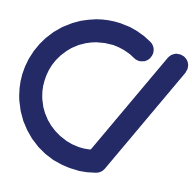
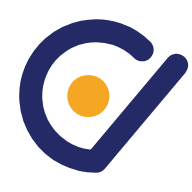
People: lilac module panel; every app wears the dotted CLOR mark
Owner, 3 Nov 2026: "both sidebars same color, hard to read modules and
submodules", and "logo still using old".

Sidebars (People, light theme only):
- The module panel is lilac #E9E5F4, brand D's secondary, under the deep
  indigo rail (12.3:1 between them), with a #C9C3E5 hairline toward the
  white page. Words indigo (10.7:1), group names #484C68 (6.8:1), a
  hovered row #DDD8EE.
- The open screen is a white tile with indigo words and the marigold edge.
- The panel redefines the shared tokens for itself; the bar's search keeps
  its indigo through a new --frame-field.

Logo:
- ClorMark and ClorLogo draw ClorTick, so Payroll, Attendance, Accounting,
  sign-in and setup show the C-tick with its marigold dot, as People does.
  The shell drops its People-only branch; packages/shell/ClorMark.jsx (an
  unused re-export) is removed.
- favicon, logo*.svg and brand/*.svg carry the dot; their PNGs are redrawn
  from them (the tile icon: cotton tick, marigold dot on indigo).

Tests: people-deep-indigo and people-colours updated for the lilac panel;
web suite 2181 passed. DESIGN.md has a 3 Nov decision row.

Changed region(s): [[0.3438, 0.375, 0.5938, 0.625]]

diff --git a/packages/ui/src/people.css b/packages/ui/src/people.css
@@ -2015,7 +2015,8 @@ html:root[data-palette='sky']:not([data-theme='dark']) #main-content .ui-metric-
 
 /*
  * Deep indigo (owner, 2 Nov 2026, direction A of three: "too pale, washed out", "generic"). The frame is the brand:
- * the bar and rail in deep indigo, the module panel in indigo, the work area white, and colour in solid blocks where
+ * the bar and rail in deep indigo, the module panel in lilac (3 Nov; it was indigo too, and the two read as one),
+ * the work area white, and colour in solid blocks where
  * it means something (the greeting and the record's header on indigo, figures on lilac, what waits on you in
  * marigold). Measured: the frame was 1.08:1 against the work area and the open screen 1.14:1 against its panel;
  * now 13.2–15.2:1 and 10.7:1. Supersedes the Cotton rail and the pale lilac panel (29 and 31 Oct). Light theme only;
@@ -2027,20 +2028,29 @@ html:root[data-palette='sky']:not([data-theme='dark']) #main-content .ui-metric-
 :root[data-palette='sky']:not([data-theme='dark']),
 :root:not([data-theme='dark']) [data-palette='sky'] {
   --frame: 27 33 82;          /* #1B2152 bar and rail */
-  --frame-panel: 35 42 102;   /* #232A66 module panel (indigo) */
+  --frame-field: 35 42 102;   /* #232A66 a field or picker on the bar (the search) */
   --frame-hi: 52 60 130;      /* #343C82 hover, a control on the frame */
   --frame-line: 62 70 140;    /* #3E468C hairline on the frame */
   --on-frame: 233 229 244;    /* lilac words: 12.3:1 on the bar, 10.7:1 on the panel */
-  --on-frame-muted: 201 195 229; /* 9.0:1 on the bar, 7.8:1 on the panel, 5.9:1 on --frame-hi */
+  --on-frame-muted: 201 195 229; /* 9.0:1 on the bar, 5.9:1 on --frame-hi */
+  /*
+   * The module panel in lilac, brand D's secondary (owner, 3 Nov 2026: "both sidebars same color, hard to read
+   * modules and submodules"). Indigo rail, lilac panel, white page: three grounds, each a clear step from the next.
+   */
+  --frame-panel: 233 229 244; /* #E9E5F4 module panel (lilac) */
+  --panel-hi: 221 216 238;    /* #DDD8EE a hovered row */
+  --panel-line: 201 195 229;  /* #C9C3E5 hairline and the duotone fill on the panel */
+  --on-panel: 35 42 102;      /* indigo words: 10.7:1 on the panel, 9.5:1 on a hovered row */
+  --on-panel-muted: 72 76 104; /* 6.8:1 on the panel, 6.0:1 on a hovered row */
   --heading-bg: 233 229 244;  /* the head row is the lilac band itself */
   --heading-hover: 221 216 238;
   --border: 222 219 234;      /* row hairline a step firmer (1.36:1, was 1.26) */
   --border-strong: 190 185 214;
   --fg-muted: 72 76 104;      /* 8.4:1 on white */
 }
-/* The frame's tokens, on the bar, the rail and the panel. */
-html:root[data-palette='sky']:not([data-theme='dark']) :is(.ui-topbar, .ui-split-rail, .ui-split-panel) {
-  --surface: var(--frame-panel);
+/* The frame's tokens, on the bar and the rail. */
+html:root[data-palette='sky']:not([data-theme='dark']) :is(.ui-topbar, .ui-split-rail) {
+  --surface: var(--frame-field);
   --surface-sunken: var(--frame-hi);
   --border: var(--frame-line);
   --border-strong: var(--frame-line);
@@ -2054,6 +2064,21 @@ html:root[data-palette='sky']:not([data-theme='dark']) :is(.ui-topbar, .ui-split
   --logo-mark: var(--lilac);
   --logo-word: 255 255 255;
   --logo-dot: var(--marigold);
+  color: rgb(var(--fg));
+}
+/* The panel's tokens: indigo words on lilac. */
+html:root[data-palette='sky']:not([data-theme='dark']) .ui-split-panel {
+  --surface: 255 255 255;
+  --surface-sunken: var(--panel-hi);
+  --border: var(--panel-line);
+  --border-strong: var(--panel-line);
+  --border-field: var(--panel-line);
+  --fg: var(--on-panel);
+  --fg-muted: var(--on-panel-muted);
+  --fg-subtle: var(--on-panel-muted);
+  --rail-ink: var(--on-panel-muted);
+  --rail-ink-strong: var(--on-panel);
+  --brand-border: var(--panel-line);
   color: rgb(var(--fg));
 }
 /* Anything that opens from the bar (the app menu, the bell, the profile) is back on the light page. */
@@ -2077,7 +2102,7 @@ html:root[data-palette='sky']:not([data-theme='dark']) .ui-topbar .ui-app-switch
 html:root[data-palette='sky']:not([data-theme='dark']) .ui-topbar .ui-app-switch .ui-glyph { color: rgb(var(--indigo)); }
 html:root[data-palette='sky']:not([data-theme='dark']) .ui-topbar .ui-topbar-initials { background: rgb(var(--lilac)); color: rgb(var(--indigo)); }
 html:root[data-palette='sky']:not([data-theme='dark']) .ui-topbar .ui-bell-count { box-shadow: 0 0 0 2px rgb(var(--frame)); }
-html:root[data-palette='sky']:not([data-theme='dark']) .ui-topbar .ui-global-search { background: rgb(var(--frame-panel)); box-shadow: inset 0 0 0 1px rgb(var(--frame-line)); }
+html:root[data-palette='sky']:not([data-theme='dark']) .ui-topbar .ui-global-search { background: rgb(var(--frame-field)); box-shadow: inset 0 0 0 1px rgb(var(--frame-line)); }
 html:root[data-palette='sky']:not([data-theme='dark']) .ui-topbar .ui-global-search kbd { background: rgb(var(--frame)); }
 /* The rail: deep indigo; the open module's tile one step lighter with its marigold fill and edge. */
 html:root[data-palette='sky']:not([data-theme='dark']) .ui-split-rail { background: rgb(var(--frame)); border-right: 0; }
@@ -2090,19 +2115,19 @@ html:root[data-palette='sky']:not([data-theme='dark']) .ui-split-rail .ui-glyph 
 html:root[data-palette='sky']:not([data-theme='dark']) .ui-split-rail .ui-split-mod[data-current] > svg.ui-glyph { color: rgb(255 255 255); background: rgb(var(--frame-hi)); box-shadow: none; }
 html:root[data-palette='sky']:not([data-theme='dark']) .ui-split-rail .ui-split-mod[data-current] .ui-glyph [opacity='0.2'] { fill: rgb(var(--marigold)); }
 html:root[data-palette='sky']:not([data-theme='dark']) .ui-split-rail > .ui-split-mod[data-more] > svg { background: transparent; color: rgb(var(--on-frame)); }
-/* The module panel: indigo; the open screen a lilac tile with indigo words and a marigold edge. */
-html:root[data-palette='sky']:not([data-theme='dark']) .ui-split-panel { background: rgb(var(--frame-panel)); border-right: 0; }
-html:root[data-palette='sky']:not([data-theme='dark']) .ui-split-panel .ui-split-panel-head .ui-t-sec { color: rgb(255 255 255); font-family: var(--font-display); font-size: 1.125rem; }
-html:root[data-palette='sky']:not([data-theme='dark']) .ui-split-panel .ui-split-item { color: rgb(var(--on-frame)); font-size: 0.875rem; }
-html:root[data-palette='sky']:not([data-theme='dark']) .ui-split-panel .ui-split-item .ui-glyph { color: rgb(var(--on-frame)); }
-html:root[data-palette='sky']:not([data-theme='dark']) .ui-split-panel .ui-split-item .ui-glyph [opacity='0.2'] { fill: rgb(var(--frame-hi)); }
-html:root[data-palette='sky']:not([data-theme='dark']) .ui-split-panel .ui-split-item:hover:not([aria-current='page']) { background: rgb(var(--frame-hi)); }
+/* The module panel: lilac; the open screen a white tile with indigo words and a marigold edge. */
+html:root[data-palette='sky']:not([data-theme='dark']) .ui-split-panel { background: rgb(var(--frame-panel)); border-right: 1px solid rgb(var(--panel-line)); }
+html:root[data-palette='sky']:not([data-theme='dark']) .ui-split-panel .ui-split-panel-head .ui-t-sec { color: rgb(var(--on-panel)); font-family: var(--font-display); font-size: 1.125rem; }
+html:root[data-palette='sky']:not([data-theme='dark']) .ui-split-panel .ui-split-item { color: rgb(var(--on-panel)); font-size: 0.875rem; }
+html:root[data-palette='sky']:not([data-theme='dark']) .ui-split-panel .ui-split-item .ui-glyph { color: rgb(var(--on-panel)); }
+html:root[data-palette='sky']:not([data-theme='dark']) .ui-split-panel .ui-split-item .ui-glyph [opacity='0.2'] { fill: rgb(var(--panel-line)); }
+html:root[data-palette='sky']:not([data-theme='dark']) .ui-split-panel .ui-split-item:hover:not([aria-current='page']) { background: rgb(var(--panel-hi)); }
 html:root[data-palette='sky']:not([data-theme='dark']) .ui-split-panel .ui-split-item[aria-current='page'] {
-  background: rgb(var(--lilac)); color: rgb(var(--indigo)); font-weight: 700; box-shadow: inset 3px 0 0 rgb(var(--marigold));
+  background: rgb(255 255 255); color: rgb(var(--indigo)); font-weight: 700; box-shadow: inset 3px 0 0 rgb(var(--marigold)), 0 1px 2px rgb(35 42 102 / 0.08);
 }
 html:root[data-palette='sky']:not([data-theme='dark']) .ui-split-panel .ui-split-item[aria-current='page'] .ui-glyph { color: rgb(var(--indigo)); }
 html:root[data-palette='sky']:not([data-theme='dark']) .ui-split-panel .ui-split-item[aria-current='page'] .ui-glyph [opacity='0.2'] { fill: rgb(var(--marigold)); }
-html:root[data-palette='sky']:not([data-theme='dark']) .ui-split-panel :is(p.ui-caption, .ui-caption) { color: rgb(var(--on-frame-muted)); }
+html:root[data-palette='sky']:not([data-theme='dark']) .ui-split-panel :is(p.ui-caption, .ui-caption) { color: rgb(var(--on-panel-muted)); }
 
 /* The work area: white, titles a step larger, colour in blocks. */
 html:root[data-palette='sky']:not([data-theme='dark']) #main-content .ui-page-heading .ui-t-page { font-size: 1.75rem !important; line-height: 2.125rem !important; }

diff --git a/test/people-deep-indigo.test.js b/test/people-deep-indigo.test.js
@@ -3,7 +3,8 @@ import { describe, expect, it } from 'vitest';
 
 /**
  * People in deep indigo (owner, 2 Nov 2026, direction A of three, after "too pale, washed out" and "generic"). The
- * bar, rail and module panel are the brand's indigo, the work area stays white, and colour comes in solid blocks.
+ * bar and rail are the brand's indigo, the module panel lilac (3 Nov 2026: indigo rail and indigo panel read as one,
+ * "hard to read modules and submodules"), the work area stays white, and colour comes in solid blocks.
  * The design note: DESIGN.md, Color → People (brand D) → Deep indigo frame.
  */
 const read = (f) => readFileSync(f, 'utf8');
@@ -26,32 +27,41 @@ const panel = token(block, 'frame-panel');
 const hi = token(block, 'frame-hi');
 const onFrame = token(block, 'on-frame');
 const onMuted = token(block, 'on-frame-muted');
+const panelHi = token(block, 'panel-hi');
+const onPanel = token(block, 'on-panel');
+const onPanelMuted = token(block, 'on-panel-muted');
 
 describe('the frame is indigo, and every word on it reads', () => {
   it('defines the frame tokens once, in the light sky palette', () => {
     expect(block).toMatch(/^:root\[data-palette='sky'\]:not\(\[data-theme='dark'\]\),\n:root:not\(\[data-theme='dark'\]\) \[data-palette='sky'\] \{\n\s*--frame: 27 33 82;/m);
-    expect(panel).toBe(INDIGO);
-    for (const t of [frame, panel, hi, onFrame, onMuted]) expect(t).toMatch(/^\d+ \d+ \d+$/);
+    expect(panel).toBe(LILAC);
+    expect(onPanel).toBe(INDIGO);
+    for (const t of [frame, panel, hi, onFrame, onMuted, panelHi, onPanel, onPanelMuted]) expect(t).toMatch(/^\d+ \d+ \d+$/);
   });
 
   it('the frame stands apart from the white work area (was 1.08:1)', () => {
     expect(contrast(frame, WHITE)).toBeGreaterThan(12);
-    expect(contrast(panel, WHITE)).toBeGreaterThan(12);
+  });
+
+  it('the rail and the module panel are two grounds, not one (3 Nov 2026)', () => {
+    expect(contrast(frame, panel)).toBeGreaterThan(10);
+    expect(block).toMatch(/\.ui-split-panel \{ background: rgb\(var\(--frame-panel\)\); border-right: 1px solid rgb\(var\(--panel-line\)\); \}/);
   });
 
   it('labels, group names and menu words clear AA on the bar, the panel and a hovered row', () => {
-    for (const ground of [frame, panel]) {
-      expect(contrast(onFrame, ground)).toBeGreaterThan(7);
-      expect(contrast(onMuted, ground)).toBeGreaterThan(7);
-    }
+    expect(contrast(onFrame, frame)).toBeGreaterThan(7);
+    expect(contrast(onMuted, frame)).toBeGreaterThan(7);
     expect(contrast(onMuted, hi)).toBeGreaterThan(4.5);
     expect(contrast(WHITE, hi)).toBeGreaterThan(7);
+    expect(contrast(onPanel, panel)).toBeGreaterThan(7);
+    expect(contrast(onPanel, panelHi)).toBeGreaterThan(7);
+    expect(contrast(onPanelMuted, panel)).toBeGreaterThan(4.5);
+    expect(contrast(onPanelMuted, panelHi)).toBeGreaterThan(4.5);
   });
 
-  it('the open screen is a lilac tile that reads against the indigo panel (was 1.14:1), with indigo words', () => {
-    expect(contrast(LILAC, panel)).toBeGreaterThan(7);
-    expect(contrast(INDIGO, LILAC)).toBeGreaterThan(7);
-    expect(block).toMatch(/\.ui-split-panel \.ui-split-item\[aria-current='page'\] \{\n\s*background: rgb\(var\(--lilac\)\); color: rgb\(var\(--indigo\)\);[^}]*inset 3px 0 0 rgb\(var\(--marigold\)\)/);
+  it('the open screen is a white tile on the lilac panel, with indigo words and a marigold edge', () => {
+    expect(contrast(INDIGO, WHITE)).toBeGreaterThan(7);
+    expect(block).toMatch(/\.ui-split-panel \.ui-split-item\[aria-current='page'\] \{\n\s*background: rgb\(255 255 255\); color: rgb\(var\(--indigo\)\);[^}]*inset 3px 0 0 rgb\(var\(--marigold\)\)/);
   });
 
   it('marigold on the frame is a fill or a mark: the open module and the waiting tile, indigo words on it', () => {
@@ -69,7 +79,8 @@ describe('the frame is indigo, and every word on it reads', () => {
   });
 
   it('the frame redefines the shared tokens, so the bar, picker and search follow; menus from the bar return to light', () => {
-    expect(block).toMatch(/:is\(\.ui-topbar, \.ui-split-rail, \.ui-split-panel\) \{\n\s*--surface: var\(--frame-panel\);/);
+    expect(block).toMatch(/:is\(\.ui-topbar, \.ui-split-rail\) \{\n\s*--surface: var\(--frame-field\);/);
+    expect(block).toMatch(/\.ui-split-panel \{\n\s*--surface: 255 255 255;[\s\S]*?--fg: var\(--on-panel\);/);
     expect(block).toMatch(/\.ui-topbar :is\(\.ui-popover, \[role='menu'\], \[role='dialog'\], \[role='listbox'\]\) \{\n\s*--surface: 255 255 255;/);
   });
 
@@ -139,7 +150,7 @@ describe('Home: one primary action, and what waits on you comes first', () => {
     expect(block).toMatch(/\.soft-band-sub strong\[data-zero\] \{ color: inherit; font-weight: 400; \}/);
     expect(block).toMatch(/\.soft-band-stat-value\[data-zero\] \{ color: rgb\(var\(--fg-subtle\)\) !important; font-weight: 600; \}/);
     expect(contrast(token(people.slice(people.indexOf('Brand D, each colour with its own job')), 'fg-subtle'), LILAC)).toBeGreaterThan(3);
-    expect(contrast(onMuted, panel)).toBeGreaterThan(4.5);
+    expect(contrast(onPanelMuted, panel)).toBeGreaterThan(4.5);
   });
 
   it('on a phone a waiting row stacks Review and Approve under the name, 44px targets', () => {

diff --git a/packages/ui/src/components/brand/ClorMark.jsx b/packages/ui/src/components/brand/ClorMark.jsx
@@ -1,38 +1,18 @@
 import React from 'react';
-import { TICK_PATH } from './ClorTick.jsx';
+import ClorTick from './ClorTick.jsx';
 
 /**
  * The CLOR mark: one stroke, never lifted. It runs round the C and finishes
  * as a tick — the tick being the product's done state, so the mark and the
- * "Filed / Paid / Approved" chips are the same idea.
+ * "Filed / Paid / Approved" chips are the same idea — with the marigold dot
+ * inside the C.
  *
- * Drawn inline so it follows the theme: indigo on cotton, marigold on the
- * dark indigo ground (`--logo-mark`). The path is ClorTick's, so People and
- * every other app draw the same mark; public/brand/clor-mark.svg matches it.
+ * Every app draws ClorTick's mark now (owner, 3 Nov 2026: Payroll, Attendance
+ * and the sign-in page still showed the mark without its dot). It follows the
+ * theme's --logo-mark / --logo-dot; public/brand/clor-mark.svg matches it.
  *
  * `color` overrides the theme colour for the rare surface that needs it.
  */
 export default function ClorMark({ size = 28, color, className = '', title = 'CLOR' }) {
-  return (
-    <svg
-      viewBox="0 0 100 100"
-      width={size}
-      height={size}
-      role={title ? 'img' : undefined}
-      aria-label={title || undefined}
-      aria-hidden={title ? undefined : 'true'}
-      className={className}
-      style={{ display: 'inline-block', verticalAlign: 'middle', flexShrink: 0 }}
-    >
-      {/* A small mark gets a heavier stroke so the tick still reads at favicon size. */}
-      <path
-        d={TICK_PATH}
-        fill="none"
-        stroke={color || 'rgb(var(--logo-mark))'}
-        strokeWidth={size < 24 ? 15 : 12}
-        strokeLinecap="round"
-        strokeLinejoin="round"
-      />
-    </svg>
-  );
+  return <ClorTick size={size} color={color} className={className} title={title} />;
 }

diff --git a/packages/shell/Shell.jsx b/packages/shell/Shell.jsx
@@ -25,7 +25,6 @@ import { confirmDialog } from '@ui/components/ui/notify';
 /* Asked before any navigation that would drop edits a screen has not saved (spec v1 §5.1, WF-11). */
 const askLeave = () => confirmDialog({ title: 'Leave without saving?', message: 'Your changes on this page have not been saved.', confirmLabel: 'Leave', tone: 'danger' });
 import HelpCenter from './HelpCenter';
-import ClorMark from './ClorMark';
 import { ClorLogo, ClorTick } from '@ui/components/brand';
 import NotificationBell from './NotificationBell';
 import { watchWideTables } from './wideTables';
@@ -713,8 +712,7 @@ export default function Shell() {
   if (restoring) {
     return (
       <div className="min-h-dvh grid place-items-center" style={{ backgroundColor: 'rgb(var(--app-bg))' }}>
-        {/* The app the address names is known before the session is: People's loading screen wears its own mark. */}
-        {chosenAppId === 'people' ? <ClorTick size={40} /> : <ClorMark size={40} />}
+        <ClorTick size={40} />
       </div>
     );
   }
@@ -1034,10 +1032,7 @@ export default function Shell() {
             </button>
           ) : null}
           <button type="button" className="flex items-center gap-2" onClick={() => openApp(mine[0]?.id)}>
-            {/* People wears the new mark (brand direction D, 29 Oct 2026); the other apps keep clor.in's until they move over. */}
-            {activeAppId === 'people'
-              ? <ClorTick size={phone ? 24 : 22} wordmark={!phone} />
-              : phone ? <ClorMark size={24} /> : <ClorLogo size={20} />}
+            <ClorTick size={phone ? 24 : 22} wordmark={!phone} />
           </button>
 
           {/* The app switcher. Named for the app you are in, because that is the

diff --git a/test/people-colours.test.js b/test/people-colours.test.js
@@ -183,9 +183,9 @@ describe('one brand series for charts, teams and leave types', () => {
 });
 
 describe('chosen and the employee app', () => {
-  /* Since 2 Nov 2026 the panel is indigo (deep indigo, test/people-deep-indigo.test.js): the open screen is a lilac tile with a marigold edge. */
-  it("the module panel's open screen sits on the lilac tile, marked with marigold", () => {
-    expect(block).toMatch(/\.ui-split-panel \.ui-split-item\[aria-current='page'\] \{\n\s*background: rgb\(var\(--lilac\)\); color: rgb\(var\(--indigo\)\); font-weight: 700; box-shadow: inset 3px 0 0 rgb\(var\(--marigold\)\);/);
+  /* Since 3 Nov 2026 the panel is lilac under an indigo rail (test/people-deep-indigo.test.js): the open screen is a white tile with a marigold edge. */
+  it("the module panel's open screen sits on a white tile, marked with marigold", () => {
+    expect(block).toMatch(/\.ui-split-panel \.ui-split-item\[aria-current='page'\] \{\n\s*background: rgb\(255 255 255\); color: rgb\(var\(--indigo\)\); font-weight: 700; box-shadow: inset 3px 0 0 rgb\(var\(--marigold\)\)/);
   });
 
   it("the employee app wears brand D's waiting through its own data-brand, not the sky palette", () => {

diff --git a/packages/ui/src/components/brand/ClorLogo.jsx b/packages/ui/src/components/brand/ClorLogo.jsx
@@ -1,5 +1,6 @@
 import React from 'react';
 import ClorMark from './ClorMark.jsx';
+import ClorTick from './ClorTick.jsx';
 
 /**
  * The CLOR logo: the C-tick mark beside the wordmark, set in Bricolage
@@ -15,6 +16,8 @@ const HEIGHTS = { sm: 20, md: 28, lg: 40, xl: 56 };
 export default function ClorLogo({ variant = 'horizontal', size = 'md', color, className = '', title = 'CLOR' }) {
   const h = typeof size === 'number' ? size : HEIGHTS[size] || HEIGHTS.md;
   if (variant === 'mark') return <ClorMark size={h} color={color} className={className} title={title} />;
+  /* The horizontal lockup is ClorTick's one drawing: CLOR close to the tick, its bottom on the C's (3 Nov 2026). */
+  if (variant === 'horizontal') return <ClorTick size={h} wordmark color={color} className={className} title={title} />;
   const word = (
     <span
       className="ui-wordmark"

diff --git a/packages/ui/src/components/brand/ClorTick.jsx b/packages/ui/src/components/brand/ClorTick.jsx
@@ -3,8 +3,8 @@ import React from 'react';
 /**
  * The CLOR mark (brand direction D, "Done, daily"; owner 29 Oct 2026): one
  * stroke, never lifted, runs round the C and finishes as a tick, with a
- * marigold dot inside the C. People wears it first; the other apps keep the
- * clor.in mark (ClorMark) until they move over.
+ * marigold dot inside the C. Every app and the sign-in page wear it (People
+ * from 29 Oct, the rest from 3 Nov 2026); ClorMark is this mark without CLOR.
  *
  * Indigo on light grounds (the theme's --logo-mark and --logo-word); `color` sets
  * the stroke and name for one particular ground. The dot stays marigold, except on a marigold ground,

diff --git a/DESIGN.md b/DESIGN.md
@@ -123,12 +123,13 @@ Nothing below 12px. Nothing between 16 and 24.
   - **Away `#8D84C6`** (`--away`) marks on leave and out today, apart from Present's indigo (3.4:1 on white, 3.9:1 against indigo). It is a mark — a bar, a dot, a cell wash — never text; the words stay indigo on lilac (10.7:1).
   - **Charts and categories** use one series, in this order: indigo `#232A66`, marigold `#F5A623`, away `#8D84C6`, deep marigold `#C98200`, indigo-60 `#5A61A8`, slate indigo `#4A4F7A`, then greys `#8A8CA3` and `#686B7C` (`--dept-1..8`, every mark but marigold at least 3:1 on white; `--dept-0`, no team, is grey). Never the old department rainbow; gender takes the first two. Initials on a face are indigo on their team's 16% wash, never the series colour as text. A leave type nobody coloured draws from the same family (`--leave-0..7`: slate indigo, marigold, indigo, deep marigold, indigo-60, grey-blue `#8A8CA3`, away, grey; the warning brown is never a leave colour — every mark but marigold at least 3:1 on white, none red, as a leave is not an error); a colour someone chose stays theirs.
   - **Zero is quiet:** a figure at nought is grey `#686B7C` (5.3:1), weight 600; only figures above nought are indigo.
-  - **Lilac `#E9E5F4`** tints what is chosen or done: the selected rail item and the module panel's open screen (the tile with a `#C9C3E5` line, since the panel itself is pale lilac), header bands, done chips with a tick, the tile behind a Settings card's icon.
+  - **Lilac `#E9E5F4`** tints what is chosen or done, and is the module panel's ground (its open screen is a white tile on it): the selected rail item, header bands, done chips with a tick, the tile behind a Settings card's icon.
   - **The work area is white** (owner: Cotton read yellowish there). Hairlines and the sunken tone are cool, a trace of lilac — border `#DEDBEA` (2 Nov 2026, was `#E6E4EE`), strong `#BEB9D6`, sunken `#F6F5FA` — so rows still part on white. Hairlines are 1.36:1 on white (were 1.26). Support text is `#484C68` (8.4:1).
   - **Deep indigo frame (owner, 2 Nov 2026, direction A of three; supersedes the Cotton rail of 29 Oct and the pale lilac panel of 31 Oct).** The owner found People "too pale, washed out" and "generic". Measured, the words were fine (lowest 4.86:1); the surfaces were not: rail and panel 1.08:1 against the work area, the open screen 1.14:1, head row and hairlines about 1.25:1. Now the frame is the brand:
-    - **Bar and rail** deep indigo `#1B2152` (`--frame`); **module panel** indigo `#232A66` (`--frame-panel`); hover and a control on the frame `#343C82` (`--frame-hi`); hairline on it `#3E468C` (`--frame-line`). Words on the frame are lilac `#E9E5F4` (`--on-frame`, 12.3:1 on the bar, 10.7:1 on the panel) and `#C9C3E5` (`--on-frame-muted`, 9.0:1 on the bar, 7.8:1 on the panel, 5.9:1 on a hovered row). The frame is 13.2–15.2:1 against the white work area.
+    - **Bar and rail** deep indigo `#1B2152` (`--frame`); hover and a control on the frame `#343C82` (`--frame-hi`); the search on the bar `#232A66` (`--frame-field`); hairline on it `#3E468C` (`--frame-line`). Words on the frame are lilac `#E9E5F4` (`--on-frame`, 12.3:1 on the bar) and `#C9C3E5` (`--on-frame-muted`, 9.0:1 on the bar, 5.9:1 on a hovered row). The bar and rail are 15.2:1 against the white work area.
+    - **Module panel lilac (owner, 3 Nov 2026: "both sidebars same color, hard to read modules and submodules").** The panel is lilac `#E9E5F4` (`--frame-panel`, brand D's secondary), 12.3:1 against the rail, with a `#C9C3E5` hairline (`--panel-line`) toward the white page. Its words are indigo (`--on-panel`, 10.7:1; 9.5:1 on a hovered row `#DDD8EE`, `--panel-hi`), group names `#484C68` (`--on-panel-muted`, 6.8:1). The panel redefines the shared tokens for itself (indigo on lilac), as the bar and rail do for theirs.
     - On the frame the shared tokens are redefined (`--surface`, `--fg`, `--border`…), so the bar's own background, the search and the company picker follow; a menu, dialog or list opened from the bar is back on the light tokens.
-    - **The open module** keeps its two-tone icon on a `--frame-hi` tile with the marigold fill and the marigold bar beside it. **The open screen** in the panel is a lilac tile with indigo words, weight 700 and a 3px marigold edge (lilac against the panel 10.7:1).
+    - **The open module** keeps its two-tone icon on a `--frame-hi` tile with the marigold fill and the marigold bar beside it. **The open screen** in the panel is a white tile with indigo words, weight 700 and a 3px marigold edge (it was a lilac tile on the indigo panel until 3 Nov 2026).
     - **The logo** draws from its tokens (`--logo-mark`, `--logo-word`, `--logo-dot`; `ClorTick` no longer hard-codes `#232A66`): on the indigo bar it keeps its two tones: the stroke lilac, the dot marigold and CLOR white.
     - **Colour in blocks, in the work area:** Home's greeting sits on an indigo block (white title, lilac words, a count above nought in marigold; a nought stays in the sentence's own lilac at weight 400) and its one primary, Add an employee, is marigold with indigo words (6.5:1); Home's figures sit on lilac tiles; a nought is quiet grey `#686B7C` at weight 600 (4.3:1 on lilac, large text), and the one that waits on you (To approve, above nought) is solid marigold. The employee record's header is an indigo block with Edit, its primary, in marigold. Lists keep the work area white: the figures strip is a lilac band, the view tabs a lilac tray with the open tab solid indigo (its count marigold), the head row the lilac band itself (`--heading-bg` `#E9E5F4`, indigo words 10.7:1), initials in a list white on indigo.
     - **Page titles 28px** in People (Bricolage, weight 800); Home's greeting 34px, 28px on a phone.
@@ -642,6 +643,7 @@ because focus, portals and event order cannot be read off the source.
 ## Decisions Log
 | Date | Decision | Rationale |
 |------|----------|-----------|
+| 2026-11-03 | People: lilac module panel; every app wears the dotted CLOR mark | Owner, 3 Nov: "both sidebars same color, hard to read modules and submodules" — the indigo rail and indigo panel read as one ground. The module panel is lilac `#E9E5F4`, brand D's secondary, with indigo words (10.7:1) and the open screen a white tile with the marigold edge; the bar and rail stay deep indigo; light theme only. Owner, same day: "logo still using old" — Payroll, Attendance, Accounting, sign-in and the static icons still drew the C-tick without its marigold dot. `ClorMark` and `ClorLogo` now draw `ClorTick`, the shell drops its People-only branch, and the favicon, `logo*.svg`, `brand/*.svg` and their PNGs carry the dot (the tile icon is a cotton tick with a marigold dot on indigo, as People's). The static lockups keep their old spacing between mark and name |
 | 2026-11-02 | People: deep indigo frame (direction A) | Owner, 2 Nov: People looked "too pale, washed out", "generic", and its spacing and hierarchy were off. The designer showed three directions on real screens (A Deep indigo, B Warm editorial, C Dense pro); the owner chose A. On the sky palette, light theme: the bar and rail `#1B2152`, the module panel `#232A66`, lilac words on them; the open screen a lilac tile with a marigold edge; Home's greeting and the record's header on indigo blocks with a marigold primary; figures on lilac, what waits on you on marigold; the head row and the tab tray lilac. **Supersedes** the Cotton rail and module panel (2026-10-29) and the pale lilac panel (2026-10-31); the white work area stands. Also fixed: People's buttons, fields and tabs back to 8px and its cards to 12px (they were 999px pills and 20px, against the two radii); Home's waiting requests above the fold with one primary action (Check in secondary, the setup list below Waiting for you); rail labels at 12px; the logo drawn from `--logo-*` tokens. Payroll, Attendance, Accounting and the employee app unchanged |
 | 2026-08-24 | Shell + primitives rebuild over a discipline-only pass | The flat type scale is why it reads as a dense tool rather than premium SaaS; discipline alone would not fix it |
 | 2026-09-08 | One vertical rhythm for page blocks | 43 screens at 16px and 20 at 20px meant no two modules agreed, and neither value was on the documented scale |
